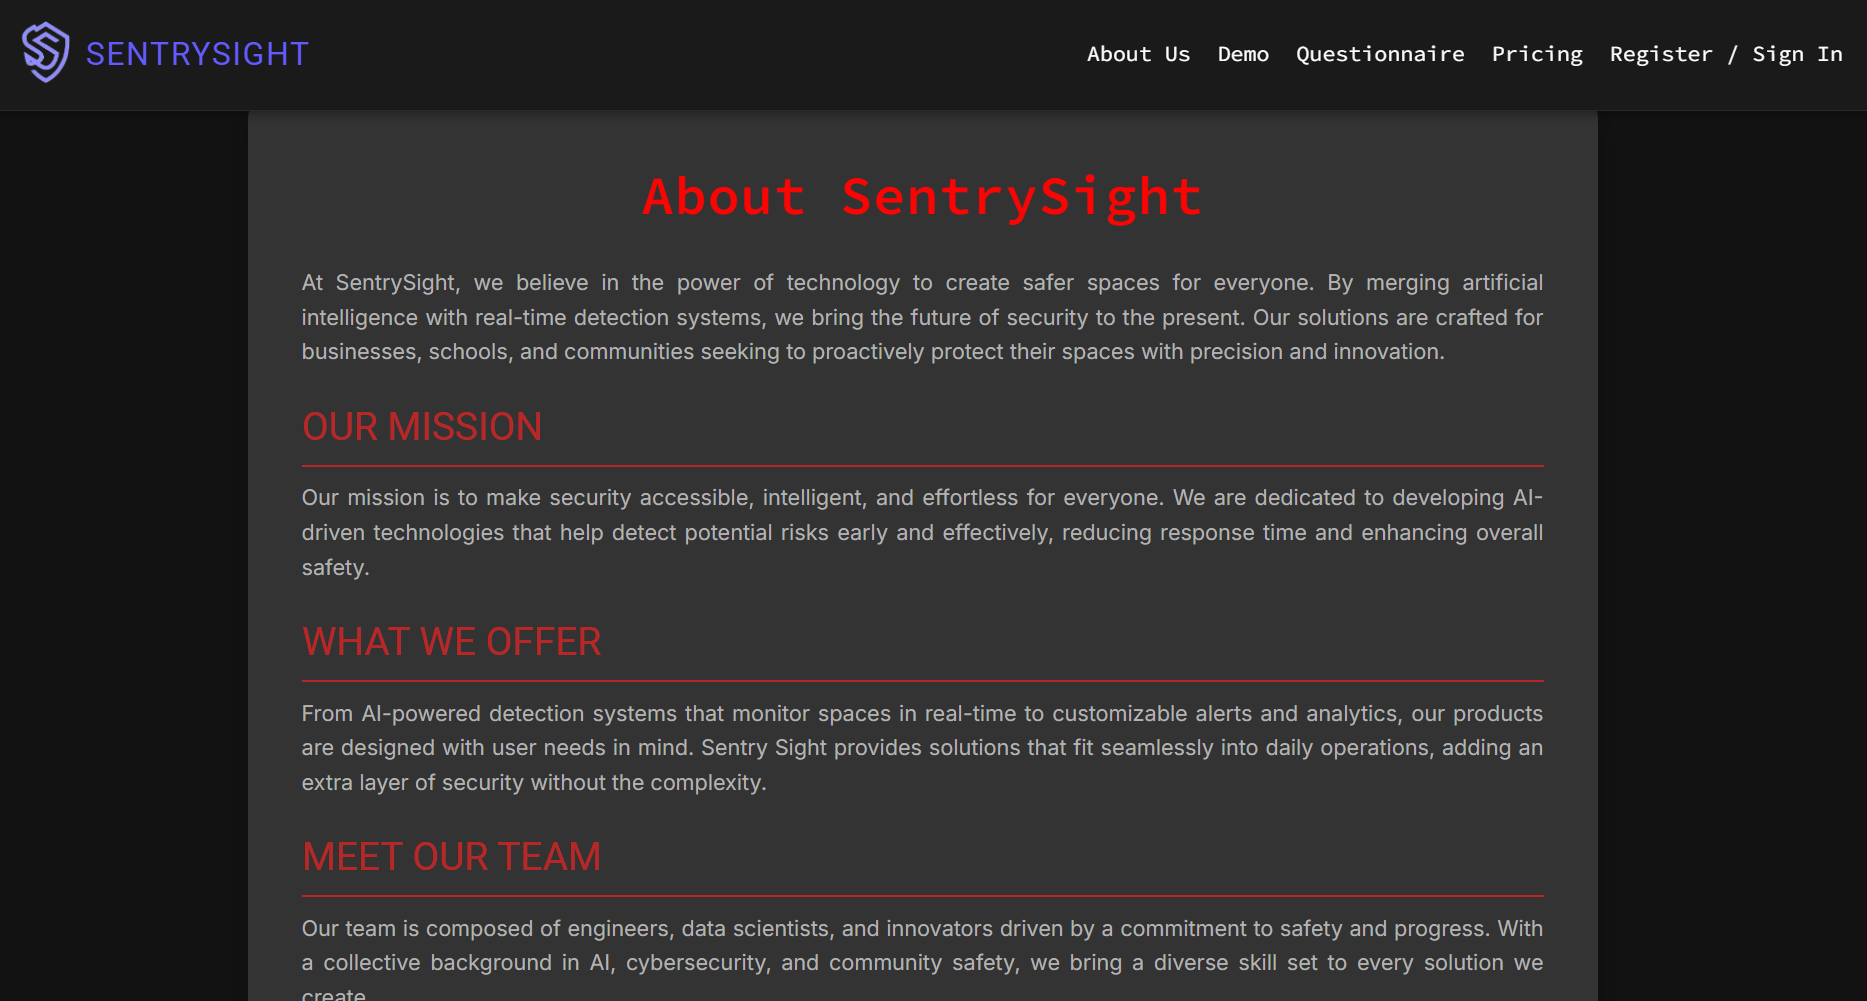
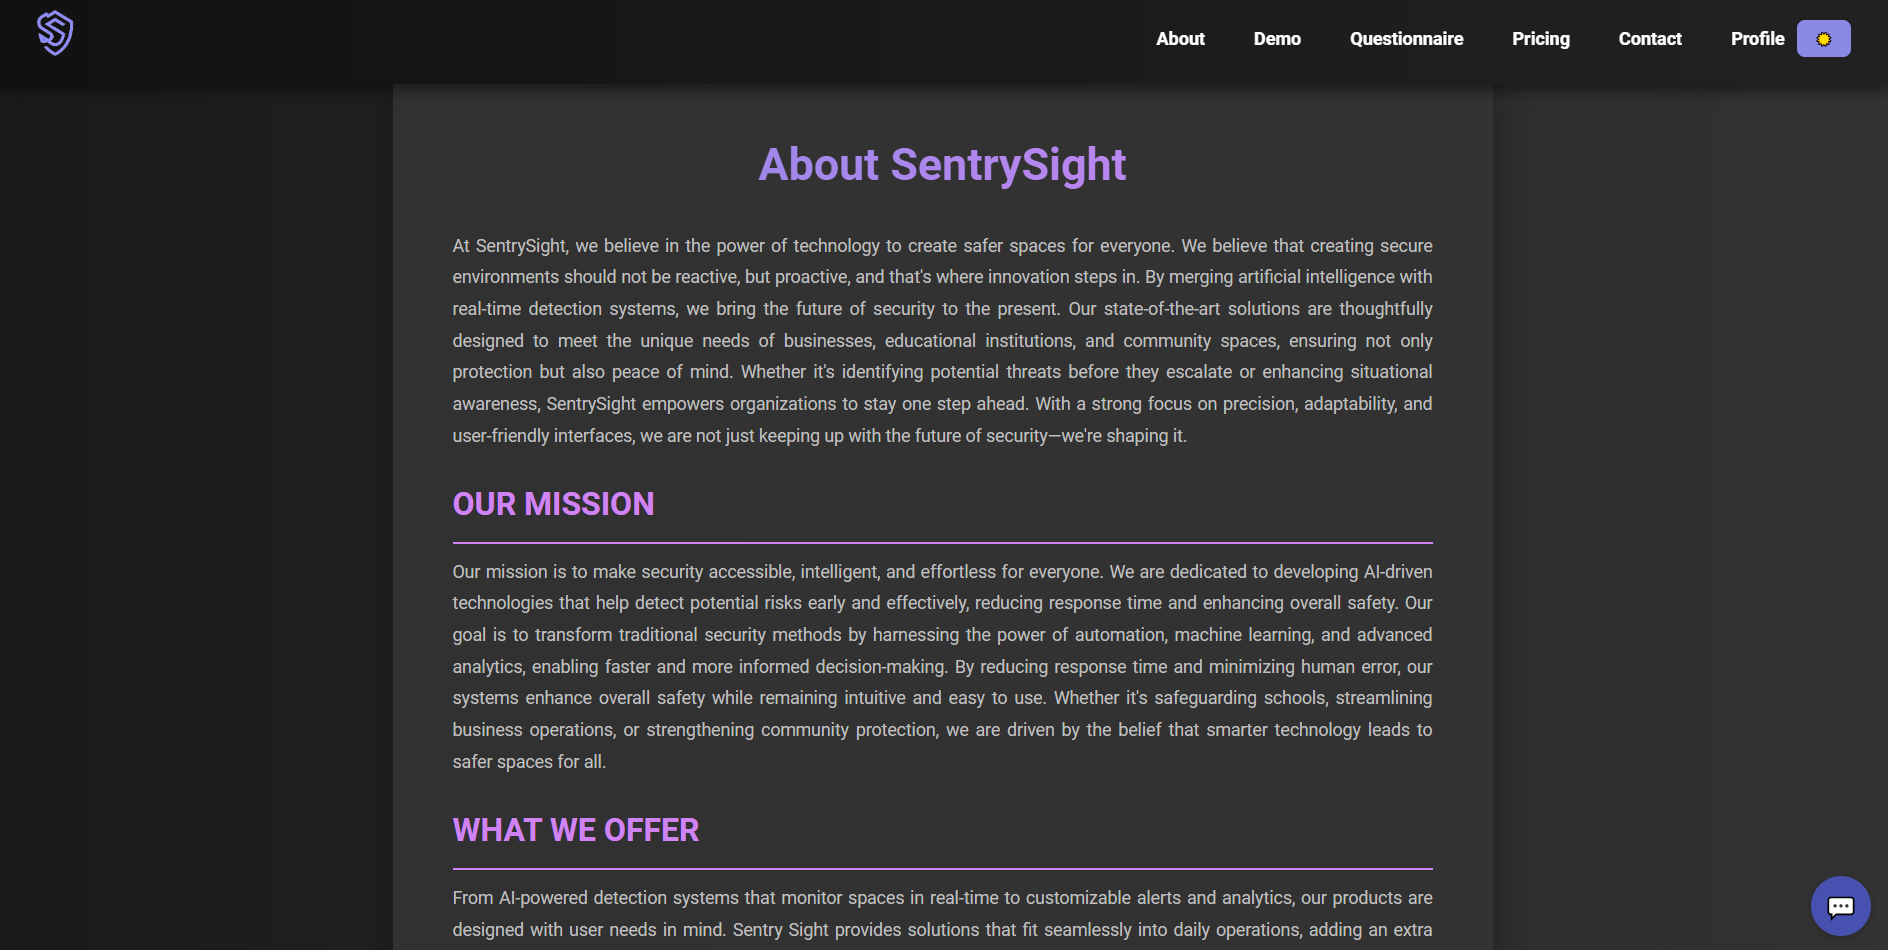
README update + css fix -tj (#100)
* Update README.md -tj

* Update README.md

* README update + design fix -tj

---------

Changed region(s): [[0.1553, 0.0916, 1.0, 1.0], [0.5903, 0.0, 0.9941, 0.0611], [0.0, 0.0, 0.1553, 0.0916]]

diff --git a/src/Profile.css b/src/Profile.css
@@ -10,7 +10,7 @@
 }
 
 .profile-title {
-  color: #ff6b6b;
+  color: #635bff;
   font-size: 28px;
   margin-bottom: 30px;
   padding-bottom: 15px;
@@ -92,13 +92,13 @@
 
 .profile input:focus,
 .profile select:focus {
-  border-color: #ff6b6b;
+  border-color: #635bff;
   outline: none;
   box-shadow: 0 0 0 2px rgba(255, 107, 107, 0.2);
 }
 
 .edit-button {
-  background-color: #ff6b6b;
+  background-color: #635bff;
   color: white;
   border: none;
   padding: 12px;
@@ -119,11 +119,11 @@
 }
 
 .edit-button:hover {
-  background-color: #ff5252;
+  background-color: #514ad4;
 }
 
 .logout-button {
-  background-color: #ff6b6b;
+  background-color: #635bff;
   color: white;
   border: none;
   padding: 12px 20px;
@@ -141,7 +141,7 @@
 }
 
 .logout-button:hover {
-  background-color: #ff5252;
+  background-color: #514ad4;
 }
 
 /* Media query adjustments */

diff --git a/src/Questionnaire.css b/src/Questionnaire.css
@@ -191,7 +191,7 @@
 
 .Questionnaire .next-button, 
 .Questionnaire .submit-button {
-  background-color: #FF3366;
+  background-color: #635bff;
   color: white;
   border-radius: 4px;
   padding: 8px 24px;
@@ -201,7 +201,7 @@
 
 .Questionnaire .next-button:hover,
 .Questionnaire .submit-button:hover {
-  background-color: #FF1A53;
+  background-color: #514ad4;
 }
 
 /* Error text */

diff --git a/README.md b/README.md
@@ -1,3 +1,4 @@
+
 # Team TechSupport
 
 **Members:**
@@ -12,15 +13,25 @@
 * CJ Pallari
 
 
-**Client:** Ritchie Martinez
-
----
-
-# SentrySight Website Development
-
 *Developed by *TechSupport* for AI Firearm Detection Solutions.*
 
 <img src="src/assets/logo.png" alt="Logo" width="200" height="auto">
+
+## Team TechSupport
+
+**Developers:**
+* David Pham
+* Arju Shrestha
+* Jenil Shingala
+* Gavin Garcia
+* Huy Dao
+* Taekjin Jung
+* Jagjot Mann
+* Adnan Baig
+* CJ Pallari
+
+
+**Client:** Ritchie Martinez
 
 ## Table of Contents
 
@@ -62,7 +73,8 @@ Our web development team was assigned to build a comprehensive website for **Sen
 
   <img src="src/assets/readme_assets/demo.png" alt="Demo" width="1024" height="auto">
 
-Product Testing <img src="src/assets/readme_assets/demo.gif" alt="Demo Video" width="1024" height="auto">
+  ***Product Testing*** 
+  <img src="src/assets/readme_assets/demo.gif" alt="Demo Video" width="1024" height="auto">
 
 - **Questionnaire Page**
 
@@ -82,9 +94,20 @@ Product Testing <img src="src/assets/readme_assets/demo.gif" alt="Demo Video" wi
 
   <img src="src/assets/readme_assets/profile.png" alt="Profile" width="1024" height="auto">
 
+- **Contact Us Page**
+
+  <img src="src/assets/readme_assets/contact.png" alt="Profile" width="1024" height="auto">
+
 ## Testing
 
-_This section will be developed in CSC 191._
+### Set up Jest for unit testing
+1. Install Jest using npm command on the terminal: npm install --save-dev jest
+2. Create a configuration file for Jest (jest.config.js)
+3. Add this code on the package.json file:
+`"scripts": {
+  "test": "react-scripts test --env=jsdom"
+}`
+4. run whole units: `npm test` (or put file name for individual testing: `npm test [file_name]`
 
 ## Deployment
 
@@ -169,7 +192,7 @@ _Make sure you have your .env file properly configured before starting the serve
 
 ### Running Tests
 
-Frontend tests are written using Jest and React Testing Library, and are located in src/**tests**/.
+Frontend tests are written using Jest and React Testing Library, and are located in src/\_\_tests\_\_/.
 
 ### To run tests:
 
@@ -189,7 +212,8 @@ Use camelCase for variables
 
 ## Timeline and Milestones
 
-Our project timeline is managed through JIRA, outlining key milestones:
+Our project timeline is managed through JIRA, outlining key milestones.
+Each Sprint was made bi-weekly:
 
 1. **Client Consultation (Sprint 1):**
 
@@ -208,13 +232,41 @@ Our project timeline is managed through JIRA, outlining key milestones:
    - Integrated interactive elements like forms and upload features.
    - Backend development for user authentication
 
-4. **Content Integration (Week 4):**
+4. **Content Integration (Sprint 4):**
 
    - Added content provided by the client, including text and images.
    - Redesign Website UI with dark theme
    - Optimize the website to satisfy the remaining requirements
 
----
+5. **(Sprint 5):**
+
+   - Updated PDF Generation from Questionnaire submission
+   - Added Light/Dark Theme Toggle
+   - Questionnaire (admin view): Filtering functionality
+   - UI update: Smooth transitions of pages
+
+6. **(Sprint 6):**
+
+   - LightSail server setup and hosting
+   - Added AI image processing functionality
+  
+7. **Security Improvement (Sprint 7):**
+
+   - Implemented hashing for users' password
+   - Added Email verification system for account registration
+   - Improved security measures for AI demo usage
+
+8. **(Sprint 8):**
+
+   - //needs to work
+
+9. **(Sprint 9):**
+
+   - //needs to work
+
+10. **(Sprint 10):**
+
+   - //needs to work
 
 ## Installation and Setup
 
@@ -236,17 +288,3 @@ Our project timeline is managed through JIRA, outlining key milestones:
 #### Output
 
 ##### [http://localhost:5173/](http://localhost:5173/)
-
-## Setup
-
-1. Clone the repository:
-   Use Github Desktop
-
-2. Navigate to the project folder:
-   Make sure you're on the correct folder, use cd command.
-
-3. Install dependencies:
-   npm install
-
-4. Run the development server:
-   npm run dev (run npm start to also turn on the server)
